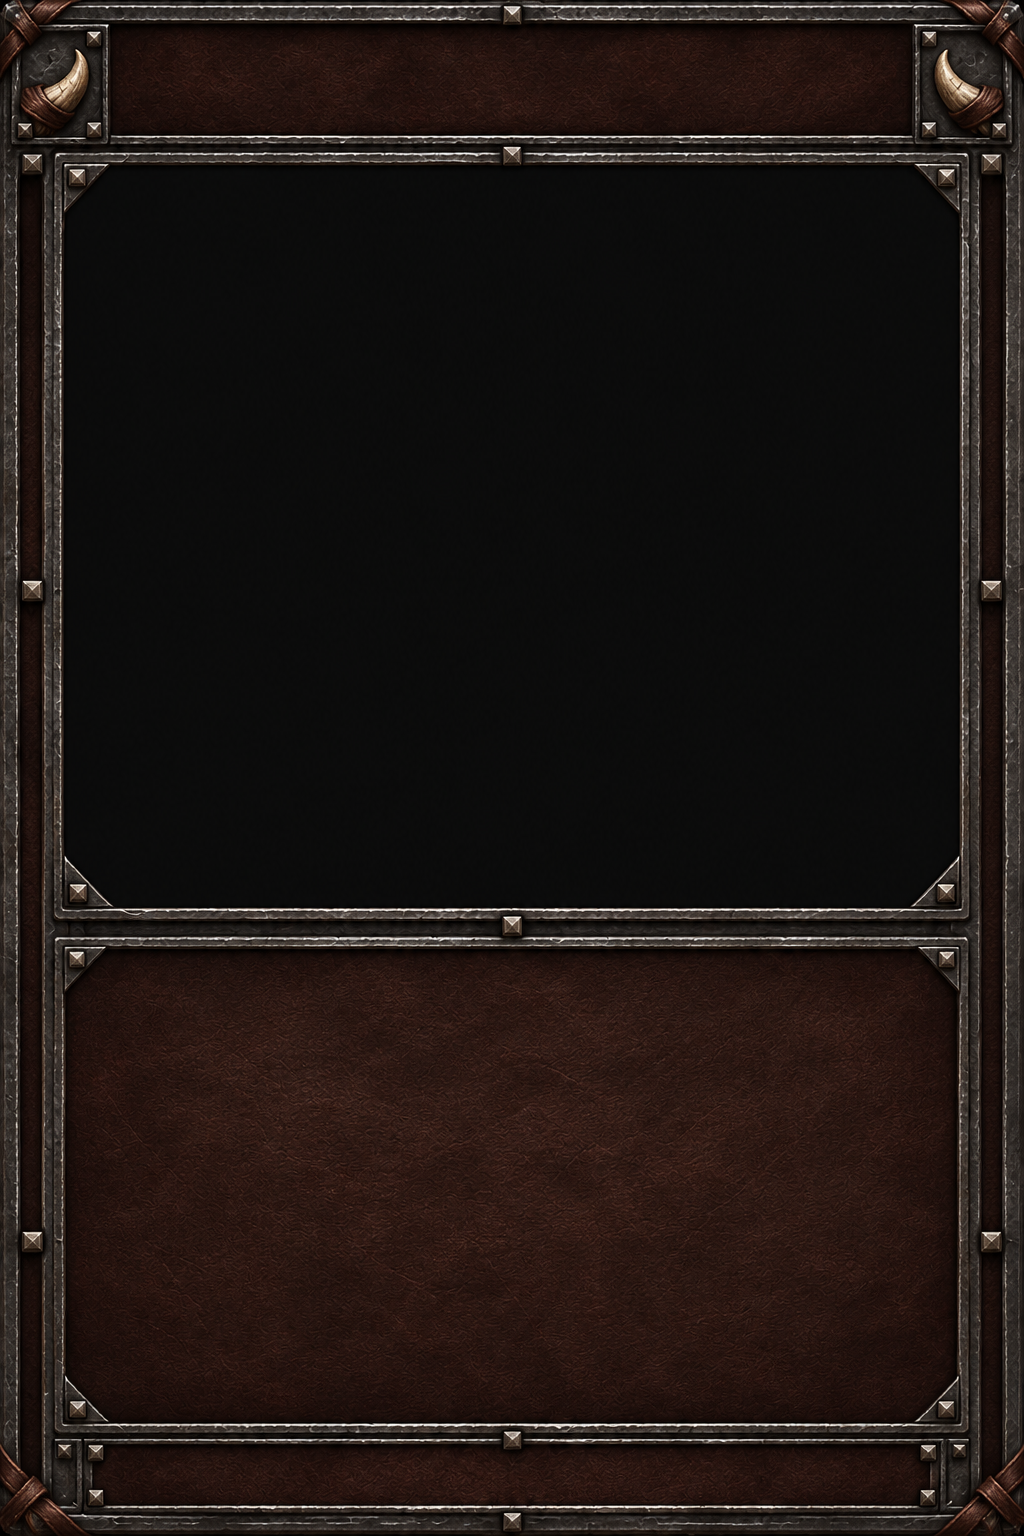
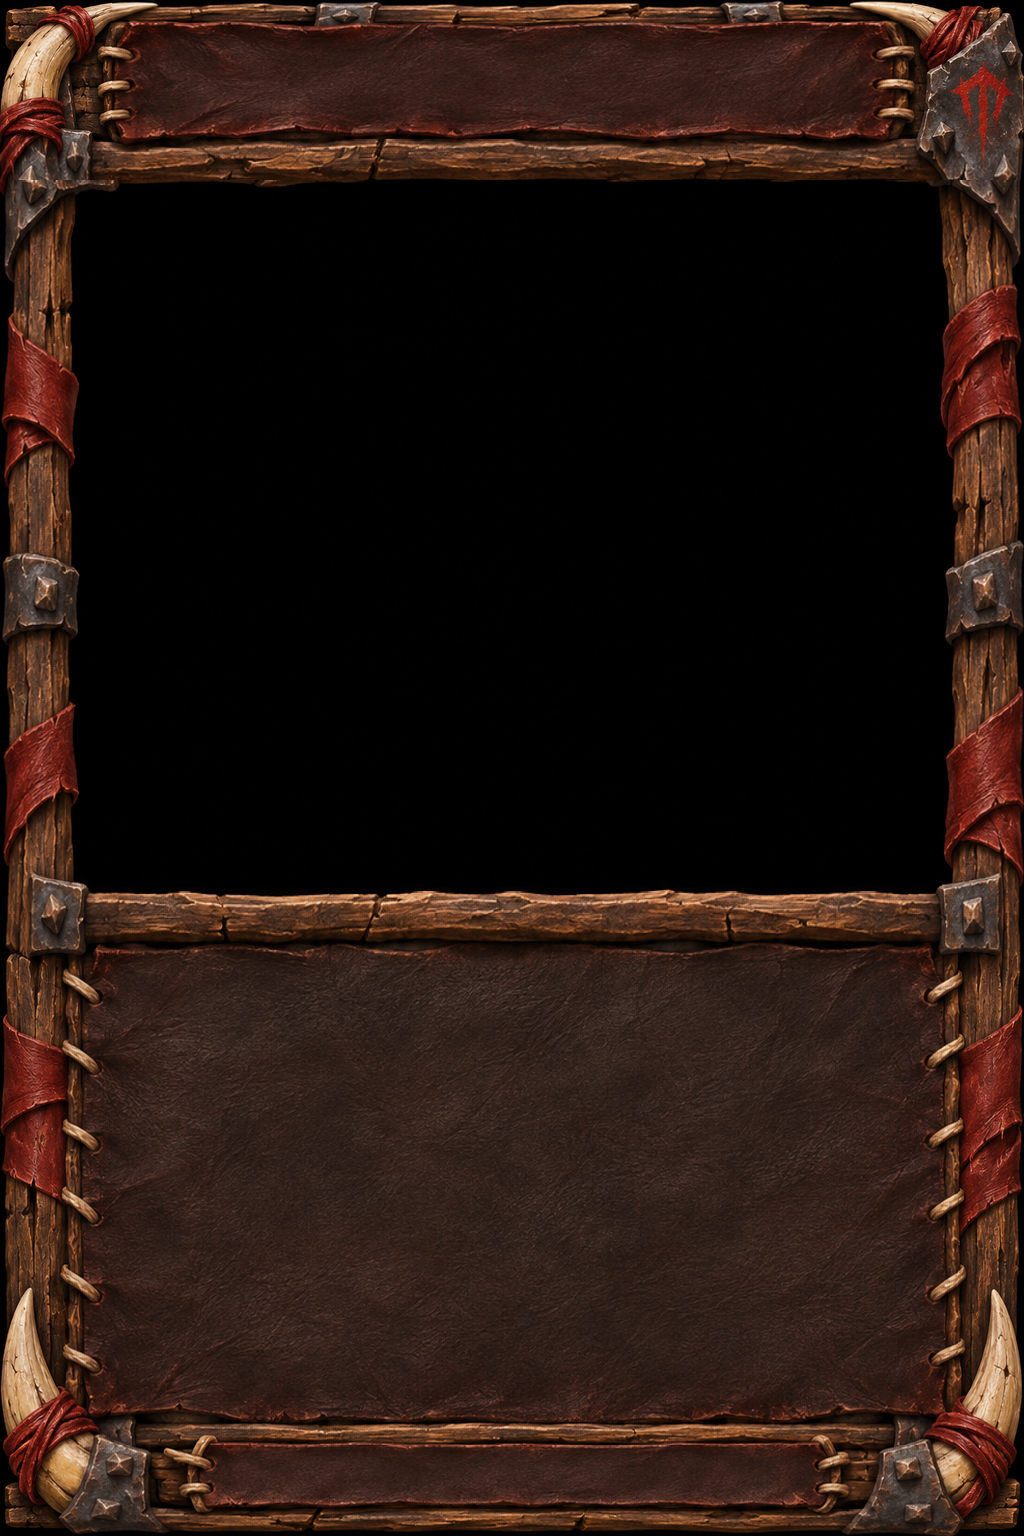
Apply approved Orc timber and Undead grave-stone card frames

Changed region(s): [[0.0, 0.0, 1.0, 1.0], [0.8125, 0.7188, 0.8438, 0.75], [0.75, 0.8125, 0.7812, 0.8438]]

diff --git a/src/styles/faction-cards.css b/src/styles/faction-cards.css
@@ -41,7 +41,7 @@ html body .illustratedCard:has(>.factionCardFrame) .pickFootprint.inArtwork {
 html body .illustratedCard:has(>.factionCardFrame)>.cardFrameImage { opacity:0; }
 html body .illustratedCard>.factionCardFrame { position:absolute!important;inset:0;width:100%;height:100%;z-index:0!important;pointer-events:none; }
 .factionFrameImage { position:absolute;inset:0;width:100%;height:100%;object-fit:fill; }
-.factionFrameAccent { position:absolute;inset:0;width:100%;height:100%;fill:none;stroke:var(--card-border);stroke-width:1.1;opacity:.9;filter:drop-shadow(0 0 1px #000); }
+.factionFrameAccent { position:absolute;inset:0;width:100%;height:100%;fill:none;stroke:var(--card-border);stroke-width:.6;opacity:.7; }
 html body .illustratedCard>.factionArtwork { position:absolute!important;left:6.5%;top:11.7%;width:87%;height:46.3%;overflow:hidden;z-index:1!important; }
 html body .illustratedCard .factionArtwork>.cardIllustration { position:absolute!important;left:-5.1724%!important;top:-23.888%!important;width:110.345%!important;height:179.856%!important;max-width:none!important;clip-path:none!important;object-fit:fill!important; }
 html body .illustratedCard:has(>.cardScene)>.factionArtwork { display:none; }

diff --git a/src/ui/faction-card-frame.js b/src/ui/faction-card-frame.js
@@ -6,5 +6,5 @@ export const cardRarityPanels = '<svg class="cardRarityPanels" viewBox="0 0 100 
 
 export function factionCardFrame(race, eager = false) {
   if (!['orc','undead'].includes(race)) return '';
-  return `<span class="factionCardFrame" data-frame-art="${race}" aria-hidden="true"><img class="factionFrameImage" ${cardImageSource(assetUrl(`cards/frames/${race}.png`))} alt="" loading="${eager?'eager':'lazy'}" decoding="async" draggable="false">${cardRarityPanels}<svg class="factionFrameAccent" viewBox="0 0 100 150" preserveAspectRatio="none"><path d="M2.9 17V86M97.1 17V86M2.9 95V139M97.1 95V139"/></svg></span>`;
+  return `<span class="factionCardFrame" data-frame-art="${race}" aria-hidden="true"><img class="factionFrameImage" ${cardImageSource(assetUrl(`cards/frames/${race}.png`))} alt="" loading="${eager?'eager':'lazy'}" decoding="async" draggable="false">${cardRarityPanels}<svg class="factionFrameAccent" viewBox="0 0 100 150" preserveAspectRatio="none"><path d="M9 90H91"/></svg></span>`;
 }

diff --git a/src/config/app.js b/src/config/app.js
@@ -1,6 +1,6 @@
 export const APP = Object.freeze({
-  version: '4.73.1',
-  label: 'V4.73.1 · KÁRTYAKERETEK',
+  version: '4.73.2',
+  label: 'V4.73.2 · KÁRTYAKERETEK',
   title: 'Roadlords – Fajok és területek',
   repository: 'krisztianmatekiss/Roadlords',
   musicRoot: 'https://raw.githubusercontent.com/krisztianmatekiss/roadlords-music/main/',

diff --git a/public/cards/frames/README.md b/public/cards/frames/README.md
@@ -1,15 +1,17 @@
 # Faction card frames
 
-Generated empty 1024 × 1536 UI paintings, integrated in 4.73.1.
+Generated empty 1024 × 1536 UI paintings, integrated in 4.73.2.
 
-- `orc.png`: hammered iron, leather bindings and tusk corner badges.
-- `undead.png`: dark stone, aged metal, bone pins and funerary runes.
+- `orc.png`: rough timber, red leather, iron plates and large tusks.
+- `undead.png`: cracked grave stone, skull, rib bones and carved funerary marks.
 
 Both retain the Human frame's panel layout. Illustrations, text, category accents and rarity panel colours are rendered separately, so one painting supports every card type and rarity.
 
 Generated originals remain in `/workspace/generated_images`:
 
-- Orc: `exec-c7e9866a-fed2-4506-a1e5-e4e2b7cef531.png`
-- Undead: `exec-6e47c433-a3f3-4dd5-ad98-2731092bb98f.png`
+- Orc: `exec-2b7103df-f9ce-497a-8528-54e6364c86ae.png`
+- Undead: `exec-0ca83f04-1da6-4d57-bc35-b0e45d4da726.png`
 
 `scripts/prepare-card-images.cjs` creates the quality-94 WebP delivery files; `src/data/web-card-images.json` records source and delivery checksums.
+
+`node scripts/fit-faction-frame.cjs <race> <original.png> <output.png>` fits the approved painting to the existing writing panels at import time. Only band dimensions change; no browser-side slices or extra frame requests are needed. Original source files are never overwritten.

diff --git a/docs/card-rarities-4.72.md b/docs/card-rarities-4.72.md
@@ -1,4 +1,4 @@
-# Kártyaepikusságok – 4.73.1
+# Kártyaepikusságok – 4.73.2
 
 Normál fejlesztésen belül, laponként: 70% gyakori, 25% ritka, 5% epikus. A legendás ereklyék továbbra is külön választástípus; a 20. ajánlat garanciája változatlan.
 
